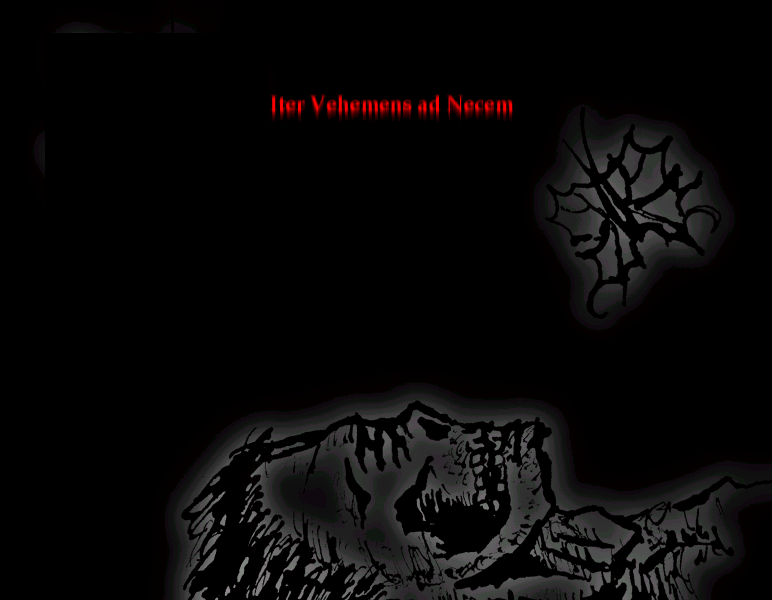
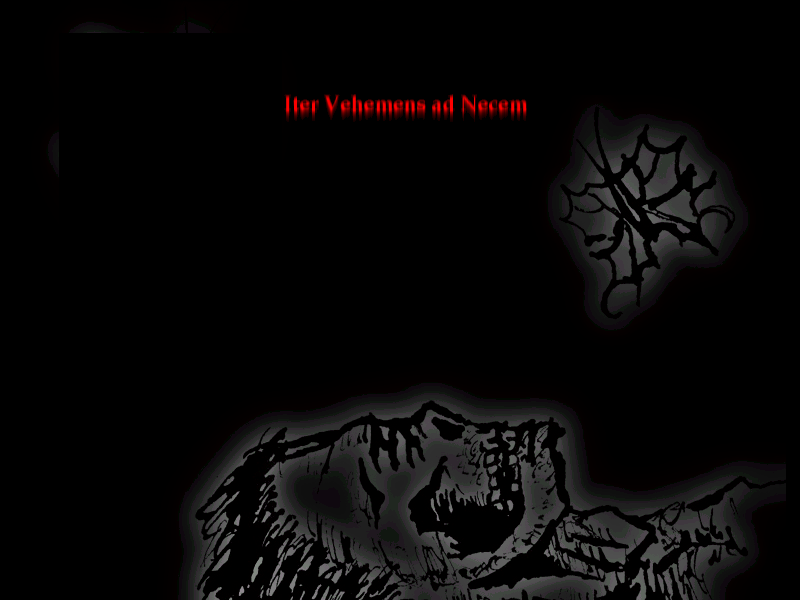
Fix main menu extra graphics/sounds (#632)
* Merge remote-tracking branch 'upstream/master'

* Dirty fix

Removed the new menu graphics for now and blocked the sounds.

* Add option for main menu graphics/sounds

* Restore optional menu graphics

Fixed up Menu2.png, which was 772x600 iso 800x600

diff --git a/FeLib/Source/feio.cpp b/FeLib/Source/feio.cpp
@@ -161,7 +161,7 @@ int iSelectedPrevious=-1;
 int iosystem::Menu(std::vector<bitmap*> vBackGround, v2 Pos,
                    cfestring& Topic, cfestring& sMS,
                    col16 Color, cfestring& SmallText1,
-                   cfestring& SmallText2)
+                   cfestring& SmallText2, truth ExtraMenuGraphics)
 {
   if(CountChars('\r', sMS) < 1)
     return (-1);
@@ -180,7 +180,12 @@ int iosystem::Menu(std::vector<bitmap*> vBackGround, v2 Pos,
 
   while(!bReady)
   {
-    cbitmap* BackGround = vBackGround.size()>iSelected?vBackGround[iSelected]:NULL;
+    cbitmap* BackGround = NULL;
+    if(ExtraMenuGraphics)
+      BackGround = vBackGround.size()>iSelected?vBackGround[iSelected]:NULL;
+    else
+      BackGround = vBackGround[0];
+
     if(BackGround){
       if( (RES.X!=BackGround->GetSize().X) || (RES.Y!=BackGround->GetSize().Y) ){
         blitdata B = DEFAULT_BLITDATA;
@@ -207,14 +212,14 @@ int iosystem::Menu(std::vector<bitmap*> vBackGround, v2 Pos,
       }
     }else
       Buffer.ClearToColor(0);
-    
+
 #ifndef NOSOUND
-    if(iSelectedPrevious != iSelected){
+    if(ExtraMenuGraphics && iSelectedPrevious != iSelected){
       soundeffects::playSound(festring()<<"Main Menu Entry "<<(iSelected+1));
       iSelectedPrevious = iSelected;
     }
 #endif
-    
+
     clock_t StartTime = clock();
     sCopyOfMS = Topic;
     int i;
@@ -298,7 +303,7 @@ int iosystem::Menu(std::vector<bitmap*> vBackGround, v2 Pos,
     }
     else
     {
-                //FONT->Printf(&Buffer, v2(100, 100), Color, "%s", "NUKES IS HERE!");
+      //FONT->Printf(&Buffer, v2(100, 100), Color, "%s", "NUKES IS HERE!");
       Buffer.FastBlit(DOUBLE_BUFFER);
       graphics::BlitDBToScreen();
       k = GET_KEY(false);
@@ -921,7 +926,7 @@ struct sAlertConfirmMsg{
 void iosystem::AlertConfirmMsgDraw(bitmap* Buffer)
 {
   if(!sAlertConfirmMsgInst.bShow)return;
-  
+
   //TODO calc all line withs to determine the full popup width to not look bad if overflow, see specialkeys help dialog creation
   int iLineHeight=20;
   v2 v2Border(700,100+(sAlertConfirmMsgInst.vfsCritMsgs.size()*iLineHeight));
@@ -944,7 +949,7 @@ void iosystem::AlertConfirmMsgDraw(bitmap* Buffer)
 bool iosystem::AlertConfirmMsg(const char* cMsg,std::vector<festring> vfsCritMsgs,bool bConfirmMode)
 {
   static bool bDummyInit = [](){graphics::AddDrawAboveAll(&AlertConfirmMsgDraw,100100,"iosystem::AlertConfirmMsgDraw"); return true;}();
-    
+
   bInUse=true;
 
   sAlertConfirmMsgInst.bShow=true;
@@ -1186,7 +1191,7 @@ festring iosystem::ContinueMenu(col16 TopicColor, col16 ListColor,
          *    Generating a new level is probably bad as it will ignore whatever happened in that level and may create
          *    duplicated items (uniques) and characters (uniques that died) when they should not exist,
          *    may be only for fully random (with non unique things on it) levels such workaround could be used...
-         * 
+         *
          * TODO for file extensions, find the type only at the end, use std::string if easier/clearer to implement
          */
       }else

diff --git a/Main/Source/iconf.cpp b/Main/Source/iconf.cpp
@@ -351,6 +351,13 @@ cycleoption ivanconfig::ScalingQuality(   "ScalingQuality",
                                           "",
                                           0, 2,
                                           &ScalingQualityDisplayer);
+truthoption ivanconfig::UseExtraMenuGraphics("UseExtraMenuGraphics",
+                                          "Use extra main menu graphics",
+                                          "Add changing graphics and sounds to the main menu.",
+                                          false,
+                                          &configsystem::NormalTruthDisplayer,
+                                          &configsystem::NormalTruthChangeInterface,
+                                          &UseExtraMenuGraphicsChanger);
 #endif
 col24 ivanconfig::ContrastLuminance = NORMAL_LUMINANCE;
 truthoption ivanconfig::PlaySounds(       "PlaySounds",
@@ -1019,6 +1026,13 @@ void ivanconfig::AllowMouseOnFelistChanger(truthoption* O, truth What)
   graphics::SetAllowMouseInFullScreen(What);
 }
 
+void ivanconfig::UseExtraMenuGraphicsChanger(truthoption* O, truth What)
+{
+  if(O!=NULL)O->Value = What;
+  felist::SetAllowMouse(What);
+  graphics::SetAllowMouseInFullScreen(What);
+}
+
 void ivanconfig::FullScreenModeChanger(truthoption*, truth)
 {
   graphics::SwitchMode();
@@ -1065,9 +1079,9 @@ void ivanconfig::VolumeHandler(long Value)
 void ivanconfig::SfxVolumeHandler(long Value)
 {
   SfxVolumeChanger(&SfxVolume, Value);
-  
+
   soundeffects::SetSfxVolume(SfxVolume.Value);
-  
+
   if(game::IsRunning())
   {
     game::GetCurrentArea()->SendNewDrawRequest();
@@ -1160,6 +1174,7 @@ void ivanconfig::Initialize()
   configsystem::AddOption(fsCategory,&HitIndicator);
   configsystem::AddOption(fsCategory,&ShowMap);
   configsystem::AddOption(fsCategory,&TransparentMapLM);
+  configsystem::AddOption(fsCategory,&UseExtraMenuGraphics);
 
   fsCategory="Sounds";
   configsystem::AddOption(fsCategory,&PlaySounds);
@@ -1222,7 +1237,8 @@ void ivanconfig::Initialize()
   SelectedBkgColorChanger(NULL, SelectedBkgColor.Value);
   AutoPickUpMatchingChanger(NULL, AutoPickUpMatching.Value);
   AllowMouseOnFelistChanger(NULL, AllowMouseOnFelist.Value);
-  
+  UseExtraMenuGraphicsChanger(NULL, UseExtraMenuGraphics.Value);
+
 #ifndef NOSOUND
   soundeffects::SetEnableSfx(PlaySounds.Value);
   soundeffects::SetSfxVolume(SfxVolume.Value);

diff --git a/Main/Include/iconf.h b/Main/Include/iconf.h
@@ -72,11 +72,12 @@ class ivanconfig
   static int GetAltListItemPos() { return AltListItemPos.Value; }
   static truth GetPlaySounds() { return PlaySounds.Value; }
   static truth IsShowTurn() { return ShowTurn.Value; }
-  static truth IsAllowMouseOnFelist(){return AllowMouseOnFelist.Value;}
+  static truth IsAllowMouseOnFelist(){ return AllowMouseOnFelist.Value; }
   static truth IsStartingOutlinedGfx() { return bStartingOutlinedGfx; }
   static long GetVolume() { return Volume.Value; }
   static long GetSfxVolume() { return SfxVolume.Value; }
   static long GetMIDIOutputDevice() { return MIDIOutputDevice.Value; }
+  static truth GetExtraMenuGraphics(){ return UseExtraMenuGraphics.Value; }
 
 #ifndef __DJGPP__
   static int GetGraphicsScale() { return GraphicsScale.Value; }
@@ -149,6 +150,7 @@ class ivanconfig
   static void SfxVolumeChanger(numberoption*, long);
   static void AltSilhouetteDisplayer(const cycleoption* O, festring& Entry);
   static void AllowMouseOnFelistChanger(truthoption*, truth);
+  static void UseExtraMenuGraphicsChanger(truthoption*, truth);
 
 #ifndef __DJGPP__
   static void GraphicsScaleDisplayer(const cycleoption*, festring&);
@@ -261,6 +263,7 @@ class ivanconfig
   static truthoption ShowTurn;
 
   static truthoption AllowMouseOnFelist;
+  static truthoption UseExtraMenuGraphics;
 };
 
 inline long ivanconfig::ApplyContrastTo(long L)

diff --git a/Main/Source/game.cpp b/Main/Source/game.cpp
@@ -4643,7 +4643,8 @@ int game::Menu(std::vector<bitmap*> vBackGround, v2 Pos, cfestring& Topic, cfest
                col16 Color, cfestring& SmallText1, cfestring& SmallText2)
 {
   globalwindowhandler::DisableControlLoops();
-  int Return = iosystem::Menu(vBackGround, Pos, Topic, sMS, Color, SmallText1, SmallText2);
+  int Return = iosystem::Menu(vBackGround, Pos, Topic, sMS, Color, SmallText1, SmallText2,
+                              ivanconfig::GetExtraMenuGraphics());
   globalwindowhandler::EnableControlLoops();
   return Return;
 }

diff --git a/Main/Source/main.cpp b/Main/Source/main.cpp
@@ -175,7 +175,8 @@ int main(int argc, char** argv)
                                 CONST_S("Released under the GNU\r"
                                         "General Public License\r"
                                         "More info: see COPYING\r"),
-                                CONST_S("IVAN v" IVAN_VERSION "\r"));
+                                CONST_S("IVAN v" IVAN_VERSION "\r"),
+                                ivanconfig::GetExtraMenuGraphics());
 
     switch(Select)
     {

diff --git a/FeLib/Include/feio.h b/FeLib/Include/feio.h
@@ -41,7 +41,8 @@ class iosystem
   static int Menu(std::vector<bitmap*> vBackGround, v2, cfestring&,
                   cfestring&, col16,
                   cfestring& = CONST_S(""),
-                  cfestring& = CONST_S(""));
+                  cfestring& = CONST_S(""),
+                  truth = false);
   static void TextScreen(cfestring&, v2 Disp = ZERO_V2,
                          col16 = 0xFFFF, truth = true,
                          truth = true, bitmapeditor = 0);
